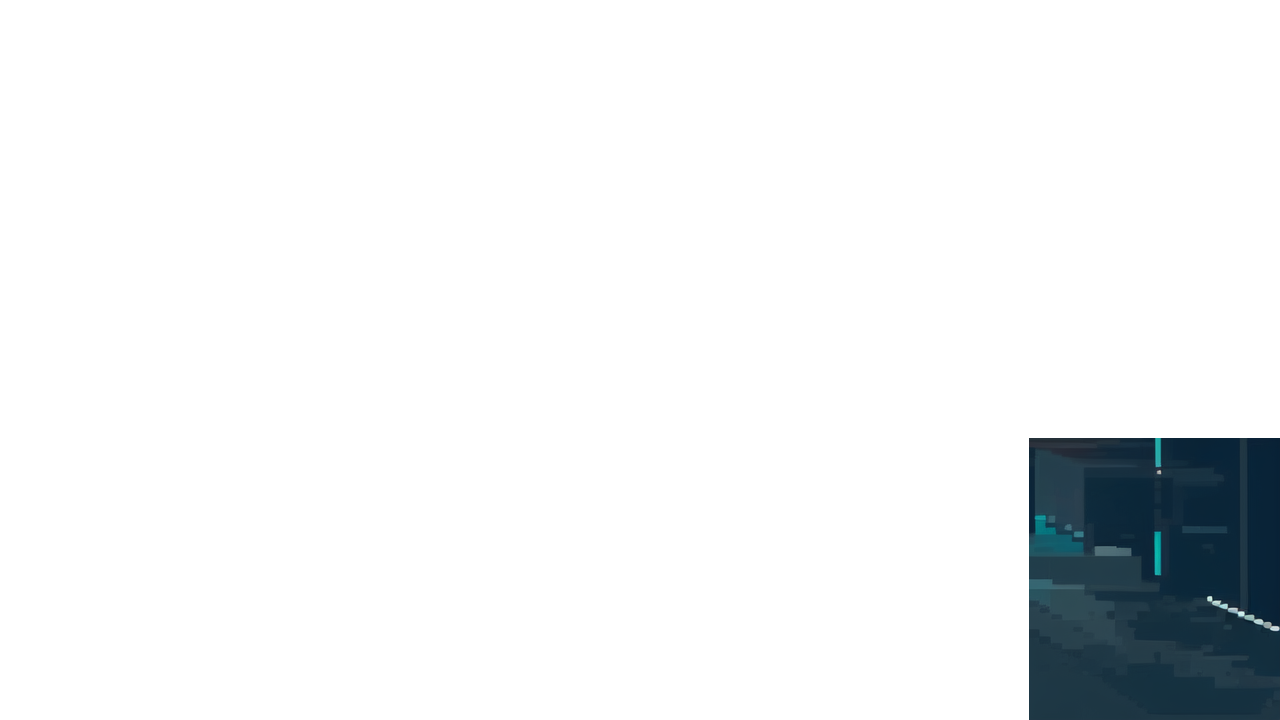
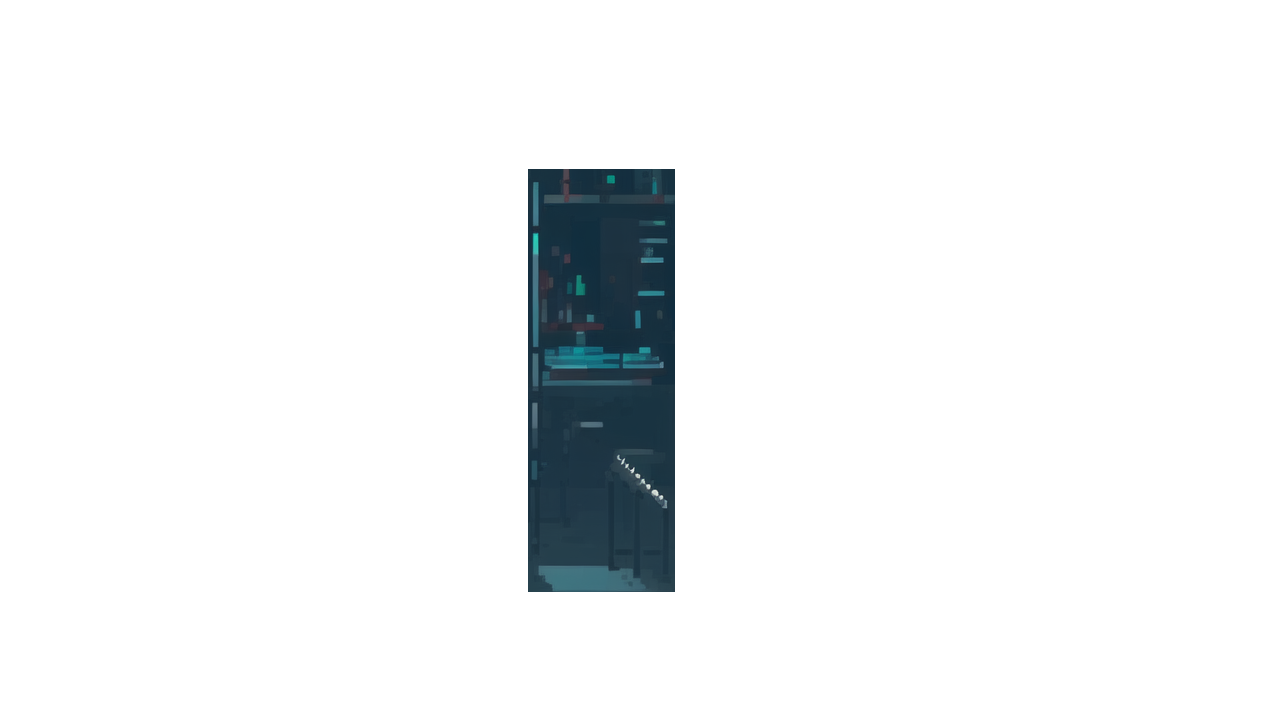
Changed the place of hiddenchest in storage room, the player now cannot click on hidden chest after the chest is being found

Changed region(s): [[0.7812, 0.6111, 1.0, 1.0], [0.4062, 0.2139, 0.5312, 0.825]]

diff --git a/src/main/java/nz/ac/auckland/se206/controllers/StorageController.java b/src/main/java/nz/ac/auckland/se206/controllers/StorageController.java
@@ -11,9 +11,9 @@ import nz.ac.auckland.se206.SceneManager.AppPanel;
 
 public class StorageController {
 
-    @FXML private Rectangle hiddenChest;
-    @FXML private ImageView progressButton;
-    @FXML private ImageView storageDoor;
+  @FXML private Rectangle hiddenChest;
+  @FXML private ImageView progressButton;
+  @FXML private ImageView storageDoor;
   @FXML private ImageView hiddenChestImage;
   @FXML private ImageView chest;
   @FXML private Label counter;
@@ -29,6 +29,7 @@ public class StorageController {
 
   public void findChest() {
     System.out.println("Find chest");
+    hiddenChest.setDisable(true);
     chest.setDisable(false);
     chest.setOpacity(1);
   }
